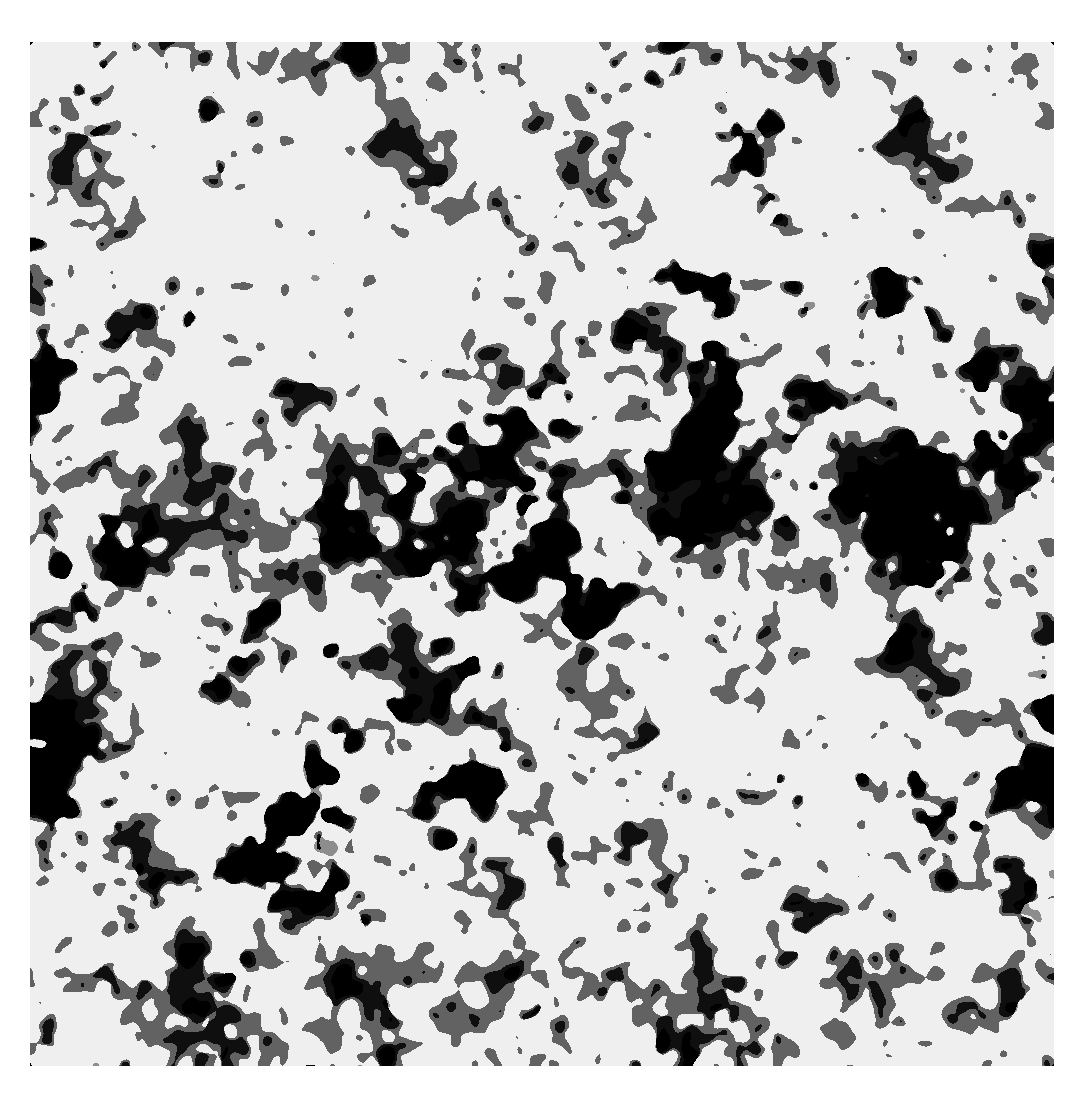
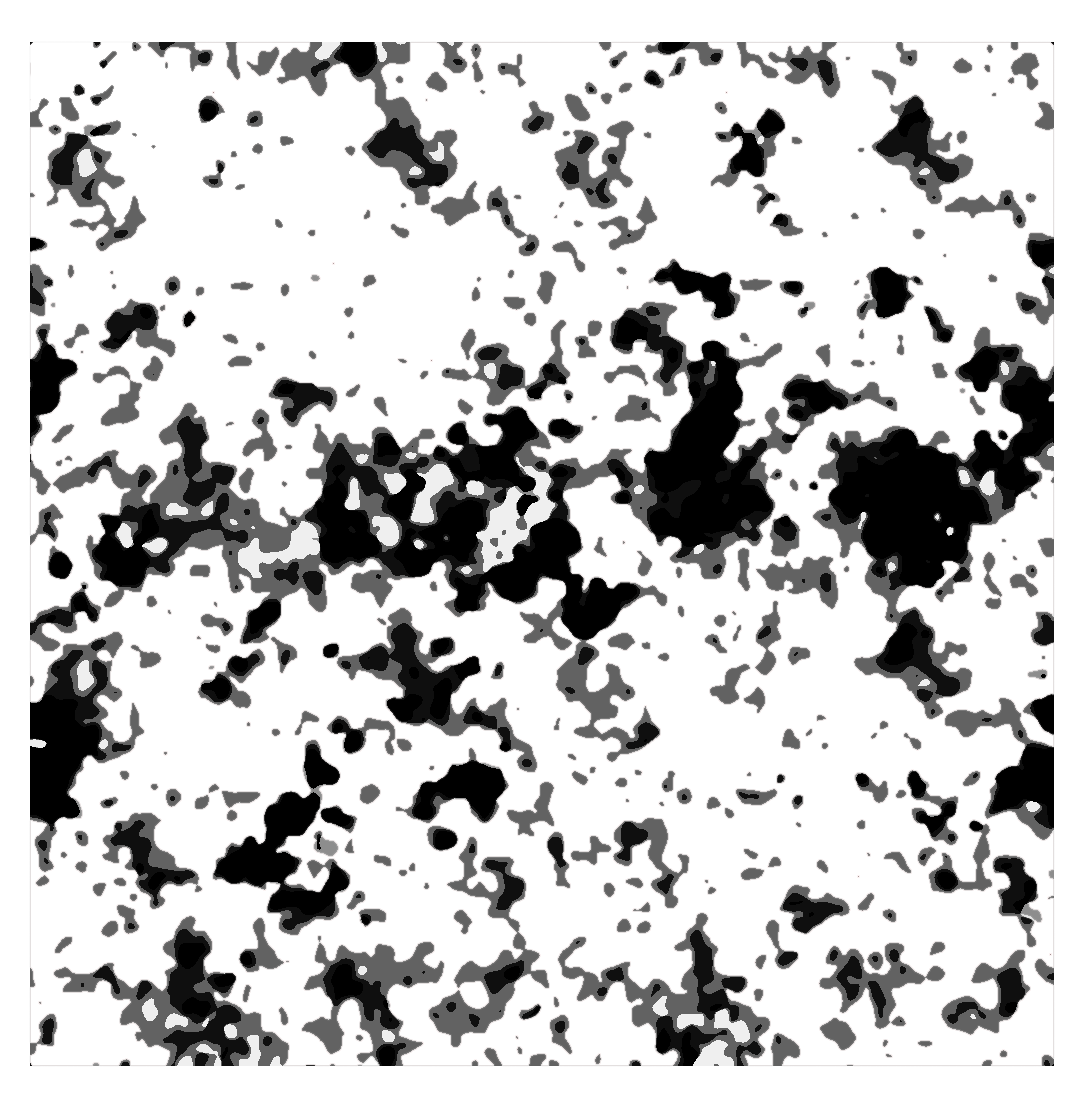
(0.29.5): Grime texture placed correctly

diff --git a/src/css/spells.css b/src/css/spells.css
@@ -96,12 +96,52 @@
 /* The school's glyph, large in the card's top-right corner (.ico-school in
    icons.css). Pinned rather than laid out, so it doesn't push the meta line
    down; only the two lines beside it make room, the description runs under. */
+.spell-card.has-school-icon {
+  /* The icon's box, and how far past the card's corner the grime starts. */
+  --sci-top: 10px;
+  --sci-right: 12px;
+  --sci-size: 40px;
+  --grime-over: 4px;
+  /* The icon and the grime sit at z-index -1: under the card's text, but over
+     its background, which isolation keeps them from slipping beneath. */
+  isolation: isolate;
+}
 .spell-card .ico-school {
   position: absolute;
-  top: 10px;
-  right: 12px;
-  width: 40px;
-  height: 40px;
+  top: var(--sci-top);
+  right: var(--sci-right);
+  width: var(--sci-size);
+  height: var(--sci-size);
+  z-index: -1;
+}
+/* On the card the grime is the card's, not the icon's (below). */
+.spell-card .ico-school::after { display: none; }
+
+/* The grime patch behind the icon. Its top-right corner sits --grime-over past
+   the card's own corner and is clipped back to the card (padding box, inner
+   radius), so it runs right up to both edges; its bottom-left corner is placed
+   so the icon's bottom-left corner is the midpoint of the patch's diagonal —
+   hence each size is twice the icon's reach from that corner. Two gradients,
+   intersected, fade it to nothing along the WHOLE left and bottom edges, not
+   only at the bottom-left corner. Painted after the icon at the same z-index,
+   so it lies over the glyph too. */
+.spell-card.has-school-icon::after {
+  content: '';
+  position: absolute;
+  z-index: -1;
+  pointer-events: none;
+  top: calc(-1 * var(--grime-over));
+  right: calc(-1 * var(--grime-over));
+  width: calc(2 * (var(--sci-right) + var(--sci-size) + var(--grime-over)));
+  height: calc(2 * (var(--sci-top) + var(--sci-size) + var(--grime-over)));
+  /* 112%: grime.png's transparent margin (about 4% a side) falls outside. */
+  background: url('../../img/grime.png') center / 112% 112% no-repeat;
+  opacity: 0.18;
+  -webkit-mask-image: linear-gradient(to left, #000, transparent), linear-gradient(to bottom, #000, transparent);
+          mask-image: linear-gradient(to left, #000, transparent), linear-gradient(to bottom, #000, transparent);
+  -webkit-mask-composite: source-in;
+          mask-composite: intersect;
+  clip-path: inset(var(--grime-over) var(--grime-over) 0 0 round 0 5px 0 0);
 }
 .spell-card.has-school-icon .spell-card-head,
 .spell-card.has-school-icon .spell-meta { padding-right: 50px; }
